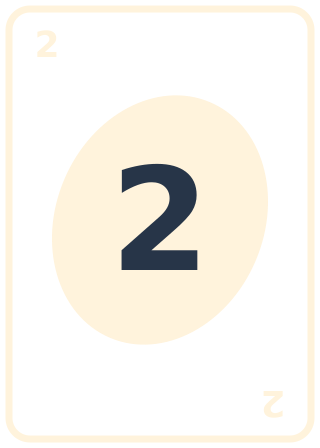
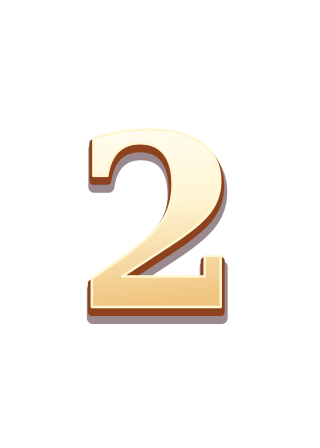
Redraw the royal card deck with gilded frames

diff --git a/Assets/ChessCards/Runtime/ChessCardsApp.cs b/Assets/ChessCards/Runtime/ChessCardsApp.cs
@@ -16,7 +16,7 @@ namespace ChessCards
         Font font;
         Texture2D[,] pieces = new Texture2D[2, 9];
         readonly Texture2D[] cardFaces = new Texture2D[6];
-        Texture2D cardBody, cardBack;
+        Texture2D cardBody, cardFrame, cardBack;
         GUIStyle text, center, bold;
         bool initialized, location = true, rules, confirmLeave, credited;
         int selected = -1, page;
@@ -39,13 +39,14 @@ namespace ChessCards
         bool portrait;
         float w, h;
         readonly Color background = Hex("200D31"), panel = Hex("492469"), ink = Hex("FFF9F2"), muted = Hex("F0D8FB"), gold = Hex("FFE098");
-        readonly Color[] cardColors = { Hex("C4274E"), Hex("225AC2"), Hex("26872F"), Hex("C87C15") };
+        readonly Color[] cardColors = { Hex("E22E49"), Hex("315DE5"), Hex("24A322"), Hex("E79D23") };
         static Color Hex(string s) { return new Color(Convert.ToInt32(s.Substring(0, 2), 16) / 255f, Convert.ToInt32(s.Substring(2, 2), 16) / 255f, Convert.ToInt32(s.Substring(4, 2), 16) / 255f); }
         void Awake()
         {
             Application.targetFrameRate = 60;
             font = Resources.Load<Font>("ChessCards/UI");
             cardBody = Resources.Load<Texture2D>("ChessCards/Cards/Body");
+            cardFrame = Resources.Load<Texture2D>("ChessCards/Cards/Frame");
             cardBack = Resources.Load<Texture2D>("ChessCards/Cards/Back");
             string[] faces = { "1", "2", "3", "Swap", "Undo", "Skip" };
             for (int i = 0; i < faces.Length; i++)
@@ -661,32 +662,32 @@ namespace ChessCards
         {
             int face = card.Kind == CardKind.Number ? card.Number - 1 : (int)card.Kind + 2;
             Texture2D art = face >= 0 && face < cardFaces.Length ? cardFaces[face] : null;
-            if (cardBody == null || art == null)
+            if (cardBody == null || cardFrame == null || art == null)
             {
                 Fill(r, cardColors[card.Color]);
                 Label(r, card.GetTitle(English), 26, ink, true);
                 return;
             }
             Color old = GUI.color;
-            GUI.color = new Color(0, 0, 0, .26f * opacity);
-            GUI.DrawTexture(new Rect(r.x + 4, r.y + 6, r.width, r.height), cardBody);
-            float edge = highlighted ? 4 : 2;
-            GUI.color = new Color(Trim.r, Trim.g, Trim.b, opacity);
-            GUI.DrawTexture(Inset(r, -edge), cardBody);
+            GUI.color = new Color(.13f, .035f, .10f, .68f * opacity);
+            GUI.DrawTexture(new Rect(r.x + 2, r.y + 4, r.width, r.height), cardBody);
+            if (highlighted)
+            {
+                GUI.color = new Color(TrimLight.r, TrimLight.g, TrimLight.b, opacity);
+                GUI.DrawTexture(Inset(r, -2), cardBody);
+            }
             Color color = cardColors[card.Color];
             GUI.color = new Color(color.r, color.g, color.b, opacity);
             GUI.DrawTexture(r, cardBody);
             GUI.color = new Color(1, 1, 1, opacity);
+            GUI.DrawTexture(r, cardFrame);
             GUI.DrawTexture(r, art);
             GUI.color = old;
-            if (r.width >= 90)
-            {
-                string caption = card.Kind == CardKind.Number
-                    ? (card.Number == 1 ? T("ХОД", "MOVE") : T("ХОДА", "MOVES"))
-                    : card.GetTitle(English);
-                Label(new Rect(r.x + 6, r.y + r.height * .777f, r.width - 12, r.height * .10f),
-                    caption, 12, new Color(ink.r, ink.g, ink.b, opacity), true, true);
-            }
+        }
+        string HandCardCaption(Card card)
+        {
+            if (card.Kind != CardKind.Number) return card.GetTitle(English);
+            return card.Number == 1 ? T("ХОД", "MOVE") : T("ХОДА", "MOVES");
         }
         void DrawCards(float x, float y, float width)
         {
@@ -711,10 +712,13 @@ namespace ChessCards
                 int i = page * 4 + slot; if (i >= count) break;
                 Card card = match.Hands[0][i];
                 bool playable = match.Actor == 0 && match.CanPlay(i);
-                Rect r = new Rect(x + slot * (slotWidth + gap) + (slotWidth - 120) / 2, y + 146, 120, 168);
-                DrawCardFace(r, card, playable, playable ? 1 : .66f);
+                Rect r = new Rect(x + slot * (slotWidth + gap) + (slotWidth - 110) / 2, y + 143, 110, 154);
+                DrawCardFace(r, card, playable, playable ? 1 : .76f);
+                Label(new Rect(r.x, r.y + r.height + 2, r.width, 18),
+                    HandCardCaption(card), 12, playable ? ink : muted, true, true);
+                Rect target = new Rect(r.x, r.y, r.width, r.height + 20);
                 bool old = GUI.enabled; GUI.enabled = old && playable;
-                if (GUI.Button(r, new GUIContent("", match.Actor == 0 ? match.UnavailableReason(i, English) : T("Ход бота", "Bot's turn")), GUIStyle.none))
+                if (GUI.Button(target, new GUIContent("", match.Actor == 0 ? match.UnavailableReason(i, English) : T("Ход бота", "Bot's turn")), GUIStyle.none))
                 { if (match.PlayCard(i)) { AnnounceCard(card, 0); Feedback(clickSound); } selected = -1; selectedMoves.Clear(); illegalGoMove = false; CreditResult(); GUIUtility.ExitGUI(); }
                 GUI.enabled = old;
             }

diff --git a/Validation/UiSmoke.cs b/Validation/UiSmoke.cs
@@ -192,8 +192,10 @@ namespace UnityEngine
                 string image="<image x='"+(r.x+ox)+"' y='"+(r.y+oy)+"' width='"+r.width+"' height='"+r.height+"' preserveAspectRatio='"+fit+"' href='"+data+"'/>";
                 if(System.IO.Path.GetFileName(texture.Path)=="Body.png")
                 {
-                    string id="mask"+(clip++);
-                    svg.Append("<defs><mask id='"+id+"'>"+image+"</mask></defs><rect x='"+(r.x+ox)+"' y='"+(r.y+oy)+"' width='"+r.width+"' height='"+r.height+"' fill='"+color.Css()+"' opacity='"+color.a+"' mask='url(#"+id+")'/>");
+                    string id="tint"+(clip++);
+                    string matrix=FormattableString.Invariant($"{color.r} 0 0 0 0  0 {color.g} 0 0 0  0 0 {color.b} 0 0  0 0 0 1 0");
+                    svg.Append("<defs><filter id='"+id+"' color-interpolation-filters='sRGB'><feColorMatrix values='"+matrix+
+                        "'/></filter></defs><g opacity='"+color.a+"' filter='url(#"+id+")'>"+image+"</g>");
                 }
                 else svg.Append("<g opacity='"+color.a+"'>"+image+"</g>");
             }
@@ -511,7 +513,7 @@ static class UiSmoke
         Directory.CreateDirectory("Validation/Previews");
         BotTimingRegression();
         var app=new ChessCardsApp();Call(app,"Awake");
-        Check(Get(app,"cardBody")!=null && Get(app,"cardBack")!=null,"Card body/back resource missing");
+        Check(Get(app,"cardBody")!=null && Get(app,"cardFrame")!=null && Get(app,"cardBack")!=null,"Card artwork resource missing");
         foreach(var face in (UnityEngine.Texture2D[])Get(app,"cardFaces")) Check(face!=null,"Card face resource missing");
         Draw(app,"Validation/Previews/location-landscape.svg");
         UnityEngine.Screen.width=720;UnityEngine.Screen.height=1280;
@@ -522,6 +524,12 @@ static class UiSmoke
         UnityEngine.GUI.Click(300,520);Draw(app,"Validation/Previews/transition.svg");
         Check(!(bool)Get(app,"location") && ((CardMatch)Get(app,"match")).Mode==GameMode.Chess,"Chess choice failed");
         var match=(CardMatch)Get(app,"match");
+        match.Hands[0].Clear();
+        match.Hands[0].AddRange(new[] { new Card(0,1), new Card(1,2), new Card(2,3), new Card(3,CardKind.Undo) });
+        Draw(app,"Validation/Previews/cards-royal-portrait.svg");
+        UnityEngine.Screen.width=1280;UnityEngine.Screen.height=720;
+        Draw(app,"Validation/Previews/cards-royal-landscape.svg");
+        UnityEngine.Screen.width=720;UnityEngine.Screen.height=1280;
         match.Hands[0].Clear();match.Hands[0].Add(new Card(match.Top.Color,1));
         UnityEngine.GUI.Click(100,1010);Draw(app,"Validation/Previews/transition.svg");
         Check(match.Phase==MatchPhase.MovePieces,"Card click failed");

diff --git a/ArtSource/Cards/README.md b/ArtSource/Cards/README.md
@@ -1,11 +1,10 @@
 # Исходники карт
 
-SVG редактируются как обычные векторные изображения. Экспортируйте каждый файл в PNG размером 320×448 с прозрачностью и тем же именем в `Assets/ChessCards/Resources/ChessCards/Cards`.
+Экспортируйте SVG в PNG 320×448 с прозрачностью и тем же именем в `Assets/ChessCards/Resources/ChessCards/Cards`.
 
-- `Body.svg` — белый силуэт, который Unity окрашивает в цвет карты.
-- `Face1`, `Face2`, `Face3`, `FaceSwap`, `FaceUndo`, `FaceSkip` — прозрачные накладки с рамкой, овалом, значением и символами.
-- `Back.svg` — полная рубашка карты.
+- `Body.svg` — нейтральная градиентная основа. Unity окрашивает её в цвет карты.
+- `Frame.svg` — золотая рамка с орнаментом.
+- `Face1`, `Face2`, `Face3`, `FaceSwap`, `FaceUndo` и `FaceSkip` — объёмные символы.
+- `Back.svg` — рубашка колоды.
 
-Лицо в игре состоит из окрашенного Body и соответствующей накладки Face. Четыре цвета задаются массивом `cardColors` в `ChessCardsApp.cs`. Игровые свойства карт не зависят от рисунка.
-
-Надписи отрисованы шрифтом DejaVu Sans, лицензия находится в Resources/ChessCards/FONT_LICENSE.txt. Для экспорта SVG нужен установленный DejaVu Sans; игра использует уже готовые PNG. Подписи карт отрисовываются в Unity по выбранному языку.
+Цифры используют DejaVu Serif. Подпись под картой в руке Unity отрисовывает по выбранному языку. Лицензия семейства DejaVu находится в `Assets/ChessCards/Resources/ChessCards/FONT_LICENSE.txt`.
